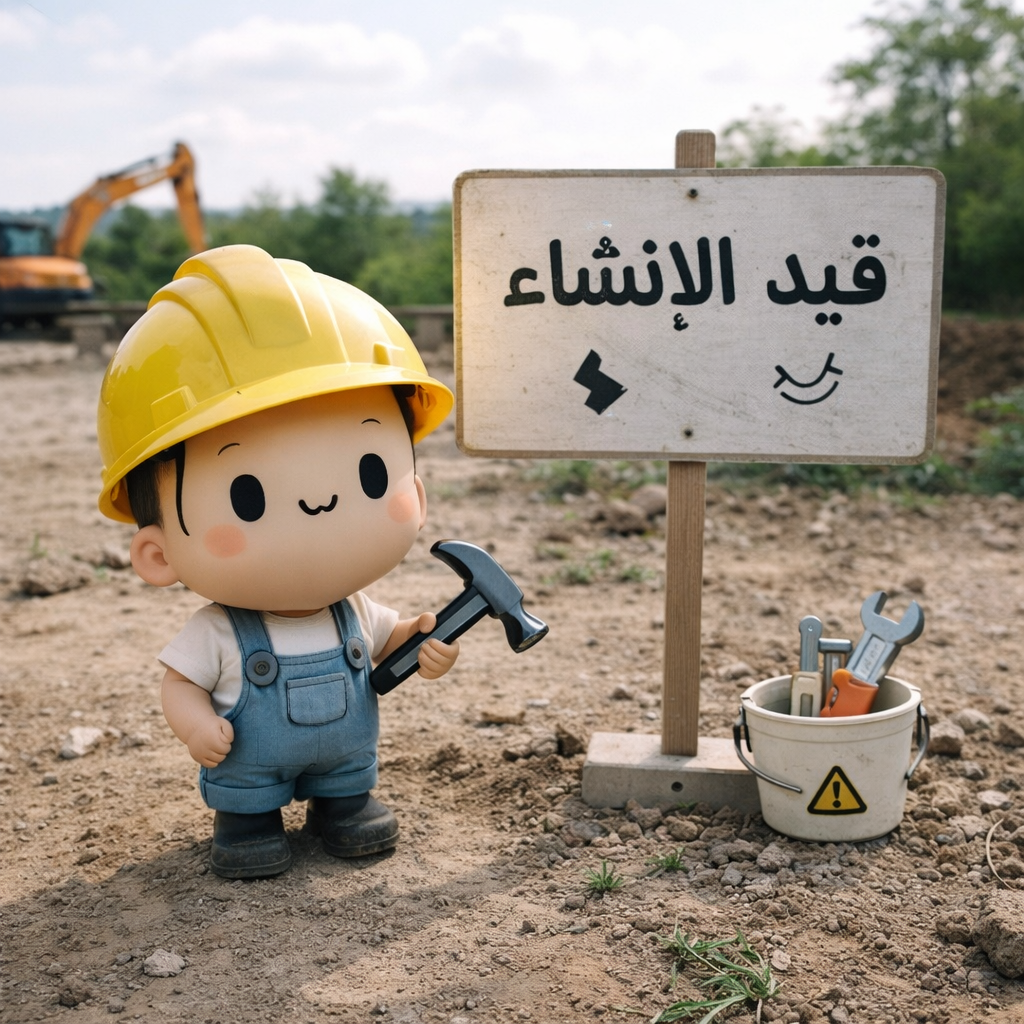
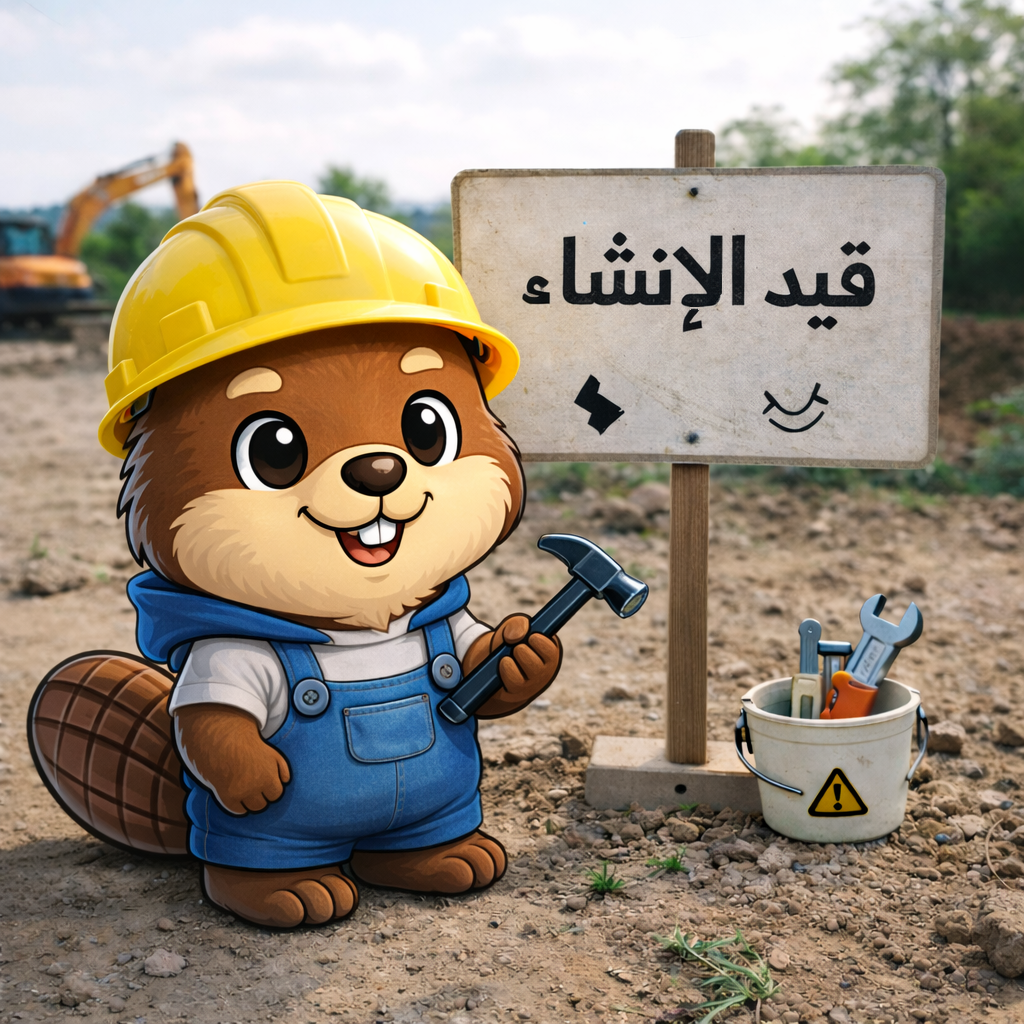
Update portfolio placeholder visuals and localized images
+ public/css/home/portfolio.css
- added square aspect ratio for placeholder media to better showcase mascot

+ public/images/home/portfolio/under_construction/[ar - en - fr].png
- replaced placeholder images with mascot-based localized versions

diff --git a/public/css/home/portfolio.css b/public/css/home/portfolio.css
@@ -109,11 +109,21 @@
 
 #portfolio .portfolio-card--placeholder .portfolio-image {
 	opacity: 0.92;
+	transform: scale(1);
+	transition: transform var(--transition-time-method);
+}
+
+#portfolio .portfolio-card--placeholder:hover .portfolio-image {
+	transform: scale(1.03);
 }
 
 #portfolio .portfolio-card--placeholder:hover {
 	transform: none;
 	box-shadow: none;
+}
+
+#portfolio .portfolio-card--placeholder .portfolio-media {
+	aspect-ratio: 1 / 1;
 }
 
 @media (max-width: 767.98px) {
